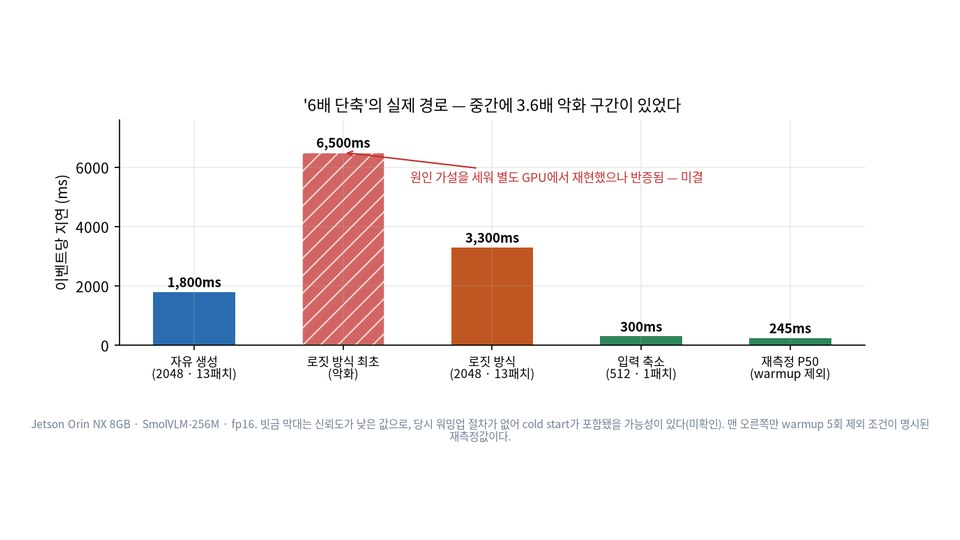
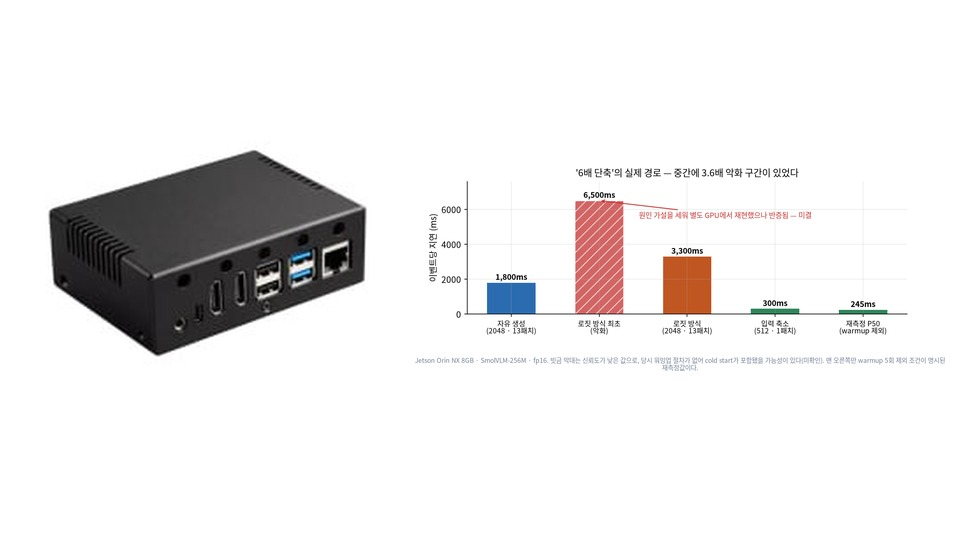
엣지 파이프라인 카드: 실제 장비 사진(로고 없이 크롭) + 지연 그래프 썸네일

Changed region(s): [[0.0312, 0.237, 1.0, 0.7111], [0.0312, 0.7704, 0.9688, 0.8296], [0.3125, 0.1778, 0.7188, 0.2074]]

diff --git a/index.html b/index.html
@@ -36,7 +36,7 @@
 <p class="sec-sub">회사에서 남은 질문을 직접 이어서 풀었습니다. 카드를 누르면 과정과 실패까지 볼 수 있습니다.</p>
 <div class="flow"><a href="/cases/edge-deploy/"><span class="who">회사</span>8GB 기기에 2차 검증기를 올릴 수 있나</a><span class="arr">→</span><a href="/cases/edge-vlm-2gb/"><span class="who">업무 연장 연구</span>2GB 안에서 상시로 돌리려면</a><span class="arr">→</span><a href="/cases/vlm-serving/"><span class="who">업무 연장 연구</span>서버로 모으면 카메라 몇 대까지</a></div>
 <div class="grid">
-<a class="card" style="--c:#4f46e5" href="/cases/edge-deploy/"><div class="thumb graph"><img src="/assets/img/thumbs/edge-deploy.jpg" alt="" loading="lazy"><span class="kind">회사 프로젝트</span></div><div class="cbody"><div class="dchips"><span class="dchip" style="--d:#4f46e5">VLM</span><span class="dchip" style="--d:#0d9488">엣지 디바이스</span><span class="dchip" style="--d:#b45309">경량화·양자화</span></div><div class="ttl">엣지 디바이스 2단계 이벤트 검증 파이프라인</div><div class="res">Jetson 8GB, VLM 검증 지연 1.8초 → 300ms</div><p class="sum">8GB 공유 메모리에 2차 검증기를 추가할 수 있는지 판정했다. 25ms짜리 경량 모델은 쓰러짐과 앉음을 0.02 차이로밖에 구분하지 못했다.</p><div class="foot"><span>2026.04 · 코드 비공개</span><span class="go">읽기 →</span></div></div></a>
+<a class="card" style="--c:#4f46e5" href="/cases/edge-deploy/"><div class="thumb"><img src="/assets/img/thumbs/edge-deploy.jpg" alt="" loading="lazy"><span class="kind">회사 프로젝트</span></div><div class="cbody"><div class="dchips"><span class="dchip" style="--d:#4f46e5">VLM</span><span class="dchip" style="--d:#0d9488">엣지 디바이스</span><span class="dchip" style="--d:#b45309">경량화·양자화</span></div><div class="ttl">엣지 디바이스 2단계 이벤트 검증 파이프라인</div><div class="res">Jetson 8GB, VLM 검증 지연 1.8초 → 300ms</div><p class="sum">8GB 공유 메모리에 2차 검증기를 추가할 수 있는지 판정했다. 25ms짜리 경량 모델은 쓰러짐과 앉음을 0.02 차이로밖에 구분하지 못했다.</p><div class="foot"><span>2026.04 · 코드 비공개</span><span class="go">읽기 →</span></div></div></a>
 <a class="card" style="--c:#0d9488" href="/cases/edge-vlm-2gb/"><div class="thumb"><img src="/assets/img/thumbs/edge-vlm-2gb.jpg" alt="" loading="lazy"><span class="kind">업무 연장 연구</span></div><div class="cbody"><div class="dchips"><span class="dchip" style="--d:#4f46e5">VLM</span><span class="dchip" style="--d:#0d9488">엣지 디바이스</span><span class="dchip" style="--d:#b45309">경량화·양자화</span></div><div class="ttl">엣지 VLM 검증기 2GB 경량화</div><div class="res">2,810 → 1,755MB, 낙상 AUROC 0.960 유지</div><p class="sum">회사에서 남은 질문을 공개 데이터로 다시 풀었다. 양자화보다 런타임 교체가 컸고, 오탐은 모델보다 흑백(IR) 영상에서 났다.</p><div class="foot"><span>2026.10 · 공개 데이터</span><span class="go">읽기 →</span></div></div></a>
 <a class="card" style="--c:#2563eb" href="/cases/vlm-serving/"><div class="thumb graph"><img src="/assets/img/thumbs/vlm-serving.jpg" alt="" loading="lazy"><span class="kind">업무 연장 연구</span></div><div class="cbody"><div class="dchips"><span class="dchip" style="--d:#4f46e5">VLM</span><span class="dchip" style="--d:#2563eb">모델 서빙</span></div><div class="ttl">VLM 검증 서버 처리량 평가</div><div class="res">같은 GPU에서 초당 25 → 95건</div><p class="sum">2차 검증을 서버 한 대로 모았다. 처리량은 배칭이 바꿨고 AWQ는 바꾸지 못했다. 모델 교체는 61.5초 중단이었다.</p><div class="foot"><span>2026.10 · 공개 데이터</span><span class="go">읽기 →</span></div></div></a>
 <a class="card" style="--c:#7c3aed" href="/cases/mlops-retrain/"><div class="thumb graph"><img src="/assets/img/thumbs/mlops-retrain.jpg" alt="" loading="lazy"><span class="kind">회사 프로젝트</span></div><div class="cbody"><div class="dchips"><span class="dchip" style="--d:#7c3aed">MLOps</span><span class="dchip" style="--d:#0d9488">엣지 디바이스</span><span class="dchip" style="--d:#b45309">경량화·양자화</span></div><div class="ttl">카메라별 비전 모델 자동 재학습 파이프라인 (MLOps)</div><div class="res">수집부터 SoC 배포·평가까지 단독, 구조 4회 전환</div><p class="sum">카메라 환경별 자동 재학습 파이프라인. 구조를 네 번 갈아엎었고, 미탐률 이상의 원인은 모델이 아니라 펌웨어였다.</p><div class="foot"><span>2026.02~05 · 단독 설계·구현</span><span class="go">읽기 →</span></div></div></a>

diff --git a/tools/make_thumbs.py b/tools/make_thumbs.py
@@ -34,7 +34,22 @@ def collage(ids, name):
 
 
 OUT.mkdir(parents=True, exist_ok=True)
-fit(IMG / "fig6_latency_trajectory.png", "edge-deploy.jpg")
+# edge-deploy: 실제로 쓴 장비 사진(제조사 카탈로그에서 로고·제품명 없이 기기만 잘라냄) + 지연 그래프
+def device_and_chart(dev, chart, name):
+    bg = Image.new("RGB", (W, H), "white")
+    d = Image.open(dev).convert("RGB")
+    s = min(380 / d.width, 320 / d.height)
+    d = d.resize((int(d.width * s), int(d.height * s)), Image.LANCZOS)
+    bg.paste(d, (20 + (380 - d.width) // 2, (H - d.height) // 2))
+    c = Image.open(chart).convert("RGB")
+    c = c.crop(ImageChops.difference(c, Image.new("RGB", c.size, "white")).getbbox())
+    s = min(530 / c.width, 470 / c.height)
+    c = c.resize((int(c.width * s), int(c.height * s)), Image.LANCZOS)
+    bg.paste(c, (410 + (540 - c.width) // 2, (H - c.height) // 2))
+    bg.save(OUT / name, quality=92)
+
+
+device_and_chart(IMG / "device" / "edge_box.png", IMG / "fig6_latency_trajectory.png", "edge-deploy.jpg")
 collage(["fall_0403", "fall_0378", "fall_0317", "fall_0383"], "edge-vlm-2gb.jpg")
 fit(IMG / "vlm_serving_load_curve.png", "vlm-serving.jpg")
 fit(IMG / "fig_mlops1_pipeline.png", "mlops-retrain.jpg")

diff --git a/build.py b/build.py
@@ -120,7 +120,7 @@ CAREER = [
 ]
 
 # 썸네일이 실제 사진·화면인 카드(그래프가 아니라서 흑백 처리를 하지 않는다)
-REAL_THUMBS = {"edge-vlm-2gb", "onvif-rag"}
+REAL_THUMBS = {"edge-vlm-2gb", "onvif-rag", "edge-deploy"}
 
 HERO_STATS = [("1.8초 → 300ms", "Jetson 8GB, VLM 검증 지연"),
               ("2,810 → 1,755MB", "정확도 유지, 런타임 교체"),
